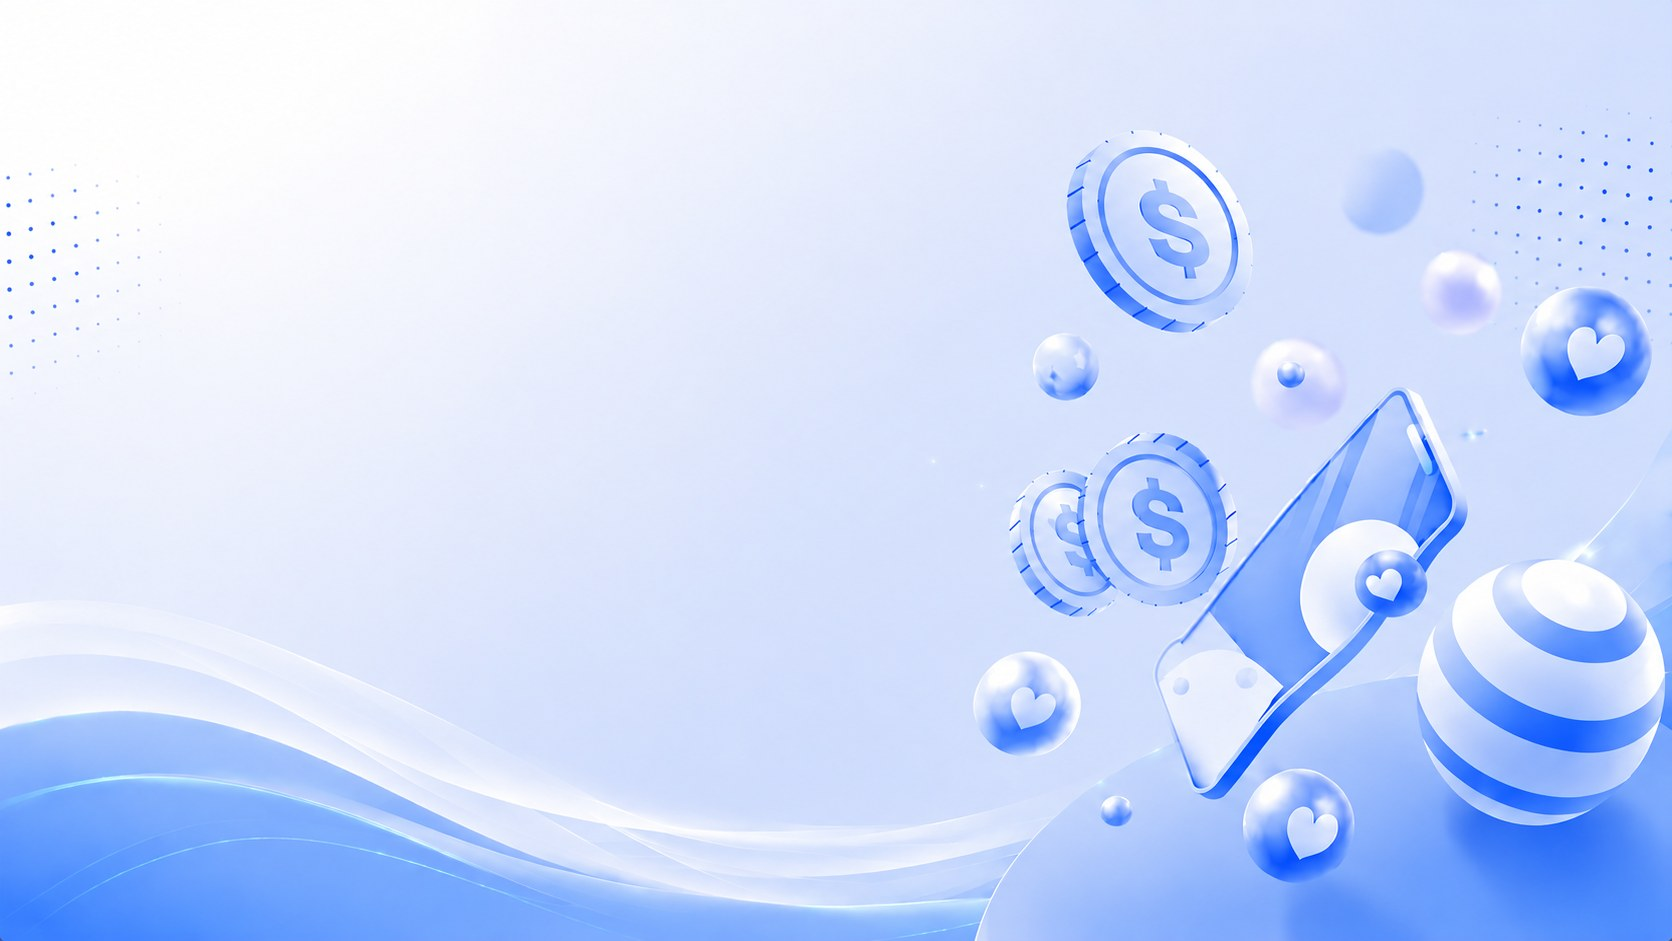
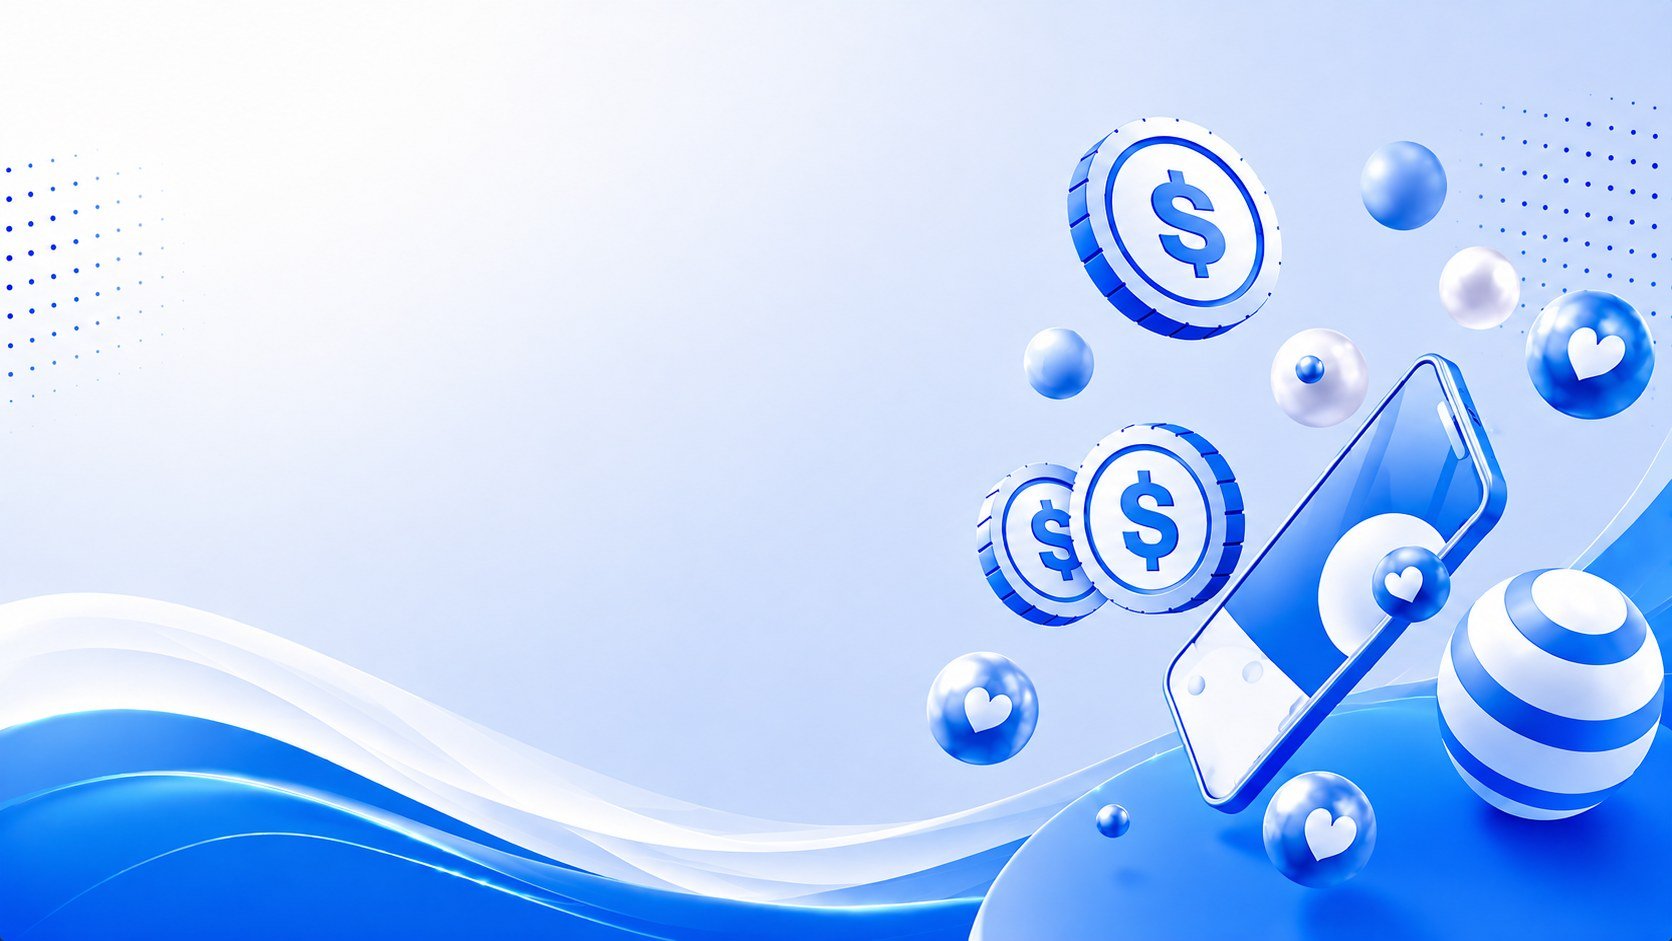
Hero: đổi ảnh nền mới, thu nhỏ vừa khung desktop, fix viền xanh cứng ở đáy
- Thay assets/img/hero-bg.jpg bằng ảnh nền mới do user cung cấp (cùng kích
  thước 1672x941 nên không cần sửa code tham chiếu)
- Thu nhỏ ảnh nền cho vừa khung desktop hơn: scale nghỉ 1 → 0.92 (đỉnh
  animation 1.015 → 0.935), vẫn an toàn không lộ mép vì khung ::before đã
  to hơn container 6% mỗi cạnh
- Fix: thu nhỏ ảnh làm lộ dải nền xanh đặc ở đáy ảnh gốc ngay chỗ chuyển
  sang section Features — thêm lớp gradient mờ dần (::after) ở đáy Hero,
  chuyển màu mượt sang nền section kế tiếp thay vì cắt cứng

diff --git a/index.php b/index.php
@@ -20,11 +20,23 @@ body{overflow-x:hidden}
 footer{display:none!important}
 
 /* ── Hero: "Website rút gọn link và kiếm tiền" ── */
-/* Nền = ảnh minh hoạ đầy đủ (sóng + chấm bi + đồng xu/phone/bubble) do user cung cấp,
-   thay cho nền gradient + chấm bi vẽ bằng CSS trước đây. Neo bên phải để cụm minh hoạ
-   luôn hiện đủ; phần bị cắt khi tràn chỉ là vùng nền trơn bên trái nên không ảnh hưởng. */
-.h2-hero{min-height:100vh;box-sizing:border-box;display:flex;align-items:center;background:#EAF1FF url('<?php echo esc_url( SITETOP_URL . '/assets/img/hero-bg.jpg' ); ?>') no-repeat right center/cover;position:relative;overflow:hidden;padding:120px 24px 60px}
-.h2-hero-grid{position:relative;z-index:1;max-width:1280px;margin:0 auto;width:100%;display:grid;grid-template-columns:1fr;gap:40px;align-items:center}
+/* Nền = ảnh minh hoạ đầy đủ (sóng + chấm bi + đồng xu/phone/bubble) do user cung cấp.
+   Ảnh được đặt trên ::before (to hơn khung 6% mỗi cạnh) rồi cho trôi nổi nhẹ bằng
+   transform — nhờ ảnh dôi ra sẵn nên khi dịch chuyển không bao giờ lộ mép/khoảng hở.
+   Tách icon rời để bay riêng lẻ đã thử (inpainting xoá icon) nhưng nền bị rách khi
+   xoá — cụm minh hoạ dày đặc, không đủ vùng nền trống xung quanh để vá liền mạch,
+   nên chọn cách an toàn: trôi nổi cả khối. */
+.h2-hero{min-height:100vh;box-sizing:border-box;display:flex;align-items:center;background:#EAF1FF;position:relative;overflow:hidden;padding:120px 24px 60px}
+.h2-hero::before{content:'';position:absolute;inset:-6%;z-index:0;background:url('<?php echo esc_url( SITETOP_URL . '/assets/img/hero-bg.jpg' ); ?>') no-repeat right center/cover;animation:h2BgFloat 10s ease-in-out infinite;will-change:transform}
+/* Thu nhỏ ảnh cho vừa khung desktop hơn: scale nghỉ 0.92 thay vì 1 — vẫn an toàn không
+   lộ mép vì khung ::before đã to hơn container 6% mỗi cạnh (112%), 112%×0.92≈103%
+   vẫn thừa để phủ hết + còn dư biên cho phần trôi nổi translate. */
+@keyframes h2BgFloat{0%,100%{transform:translate(0,0) scale(.92)}50%{transform:translate(-10px,-14px) scale(.935)}}
+@media(prefers-reduced-motion:reduce){.h2-hero::before{animation:none}}
+/* Ảnh thu nhỏ nên lộ dải nền xanh đặc ở đáy ảnh gốc — phủ gradient mờ dần sang màu
+   nền của section kế tiếp (.ln-features:#F8FAFC) để chuyển tiếp mượt, không còn viền cứng. */
+.h2-hero::after{content:'';position:absolute;left:0;right:0;bottom:0;height:160px;z-index:1;background:linear-gradient(180deg,transparent,#F8FAFC);pointer-events:none}
+.h2-hero-grid{position:relative;z-index:2;max-width:1280px;margin:0 auto;width:100%;display:grid;grid-template-columns:1fr;gap:40px;align-items:center}
 .h2-left{max-width:620px}
 
 .h2-title{font-family:'Plus Jakarta Sans',sans-serif;font-weight:800;font-size:clamp(30px,4vw,48px);line-height:1.2;color:#0F172A;margin-bottom:20px}
@@ -61,9 +73,9 @@ img.emoji{height:1em!important;width:1em!important;margin:0 .05em 0 .1em!importa
     .h2-pills,.h2-cta-row{justify-content:center}
     .h2-social-text{text-align:left}
     /* Màn hẹp: ảnh nền bị crop/zoom mạnh (cover + neo phải) nên minh hoạ dồn
-       ngay sau chữ, dễ rối mắt — phủ thêm lớp trắng mờ dần để chữ vẫn rõ,
-       không đổi ảnh/nội dung, chỉ thêm 1 lớp gradient lên trên cùng nền. */
-    .h2-hero{background-image:linear-gradient(180deg,rgba(248,250,255,.9),rgba(248,250,255,.6) 50%,rgba(248,250,255,.3)),url('<?php echo esc_url( SITETOP_URL . '/assets/img/hero-bg.jpg' ); ?>')}
+       ngay sau chữ, dễ rối mắt — phủ thêm lớp trắng mờ dần lên trên ::before
+       để chữ vẫn rõ, không đổi ảnh/nội dung, chỉ thêm 1 lớp gradient lên nền. */
+    .h2-hero::before{background-image:linear-gradient(180deg,rgba(248,250,255,.9),rgba(248,250,255,.6) 50%,rgba(248,250,255,.3)),url('<?php echo esc_url( SITETOP_URL . '/assets/img/hero-bg.jpg' ); ?>')}
 }
 @media(max-width:480px){
     .h2-pills{flex-wrap:wrap;overflow-x:visible}
